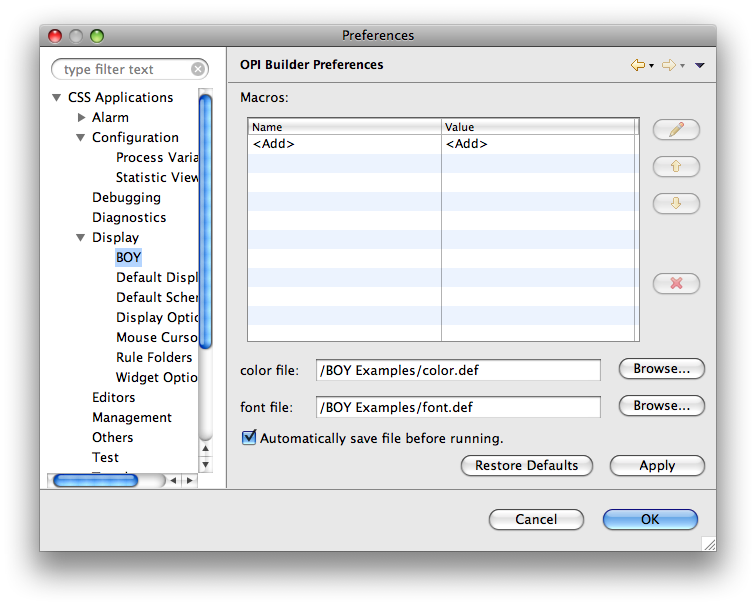
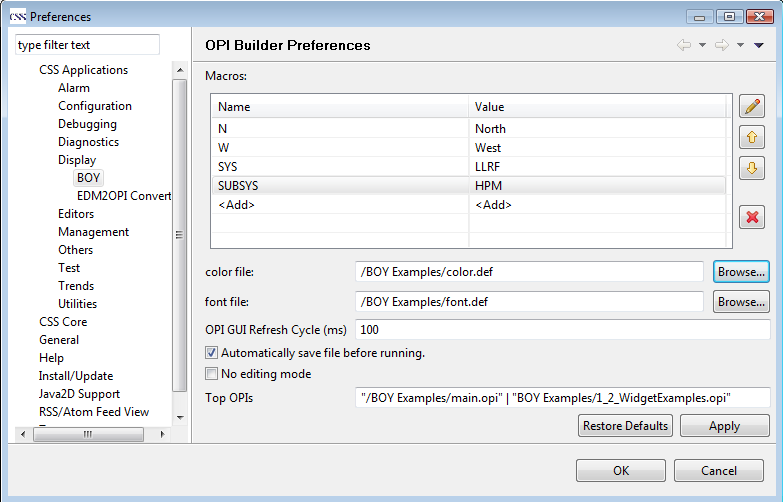
update manual

diff --git a/applications/plugins/org.csstudio.opibuilder/html/PreferencePage.html b/applications/plugins/org.csstudio.opibuilder/html/PreferencePage.html
@@ -1,0 +1,44 @@
+<html>
+  <head>
+    <meta http-equiv="Content-Type" content="text/html; charset=Cp1252"/>
+    <link rel="stylesheet" href="default.css" type="text/css" />
+    <title>
+      Setting Preferences
+    </title>
+  </head>
+  <body>
+
+    <h2>
+     Setting Preferences
+    </h2>
+
+    <h3>
+     Preference Page
+    </h3>
+    <p>
+    All the preferences of BOY can be set in the preference page, which can be opened via menu: 
+    <b>CSS->Preferences...->CSS Applications->Display->BOY</b>.
+    </p>
+    <p>
+         <img src="./img/PreferencePage.png"/>      
+    </p>
+    <ul>
+    <li>
+    <b>Macros: </b>The global sysmbol macros.
+    </li>
+    <li><b>color file: </b>The color definition file.</li>
+    <li><b>font file: </b>The font definition file.</li>
+    <li><b>OPI GUI Refresh Cycle (ms): </b> The refresh cycle of OPI GUI. Specify this to a longer will help to
+    reduce CPU usage, but it may affect user's experience and may lose some swift changs if refresh cycle is
+    longer than PV updating cycle. .
+    </li>
+    <li><b>Automatically save file before running: </b>The file in editing will be automatically saved before you run it.</li>
+    <li><b>No-Editing mode: </b>OPI files are not allowed to be opened in OPI editor. 
+    They will always be opened from runtime engine.</li>
+    <li><b>Top OPIs: </b>The OPIs which will be listed in the "Top OPIs" drop down button.</li>
+    <p><img src="./img/top_opis.png"></p>
+    </ul>
+
+
+  </body>
+</html>

diff --git a/applications/plugins/org.csstudio.opibuilder/html/Getting Started.html b/applications/plugins/org.csstudio.opibuilder/html/Getting Started.html
@@ -1,0 +1,44 @@
+<html>
+  <head>
+    <meta http-equiv="Content-Type" content="text/html; charset=Cp1252"/>
+    <link rel="stylesheet" href="default.css" type="text/css" />
+    <title>
+      Getting Started
+    </title>
+  </head>
+  <body>
+
+    <h2>
+     Getting Started
+    </h2>
+
+    <h3>
+     Building your fist OPI step by step
+    </h3>
+
+    <ul>
+    <li><b>Step 1.</b> Open the OPI Editor perspective from Menu: 
+Window->Open Perscpective->Other..->OPI Editor</li>
+<li><b>Step2.</b> Create a new OPI file from Menu
+File->new->Others...->BOY->OPI File
+</li>
+<li><b>Step3.</b> Click "Text Update" widget on the palette, then click or drag a rectangle in the editing area to place the widget on the editing area.  
+</li>
+<li><b>Step4.</b> Go to the properties view, set "PV Name" to "sim://noise"
+</li>
+<li><b>Step5.</b> Save file by pressing "Ctrl+S". Click the "Run OPI" button on the toolbar or press "Ctrl+G" to run the OPI in the editor. Congratulations! Now you can see the value update in the widget!
+</li>
+<li>You can also show PV value from other widgets (e.g. Gauge, Meter, Thermometer...) by following the same steps.
+</li>
+    </ul>   
+
+
+
+    <p>
+         <img src="./img/firstOPI.png"/>      
+    </p>
+
+
+
+  </body>
+</html>

diff --git a/applications/plugins/org.csstudio.opibuilder/html/BOY_Introduction.html b/applications/plugins/org.csstudio.opibuilder/html/BOY_Introduction.html
@@ -30,7 +30,11 @@
         The OPI Runtime can display the OPIs either in tabs or windows. It also provides the navigation function as in a
         modern web browser, by which one can easily navigate from the opened OPIs history.
       </p>
-
+	  <p>
+	  	BOY is developed based on Java and Eclipse with the pluggable feature, which means it can be 
+	  	intalled in any Eclipse RCP application by simply copy the BOY plugins file into the RCP application's plugins folder.
+	  	It has been tested that BOY runs well on Windows, Unix and X OS platforms. 
+	  </p>
       <p>
         The BOY OPI development environment:
        </p>
@@ -38,7 +42,12 @@
           <img src="./img/OPI_Editor_Perspective.png" alt="BOY OPI development environment"/>
         </p>
 
-
+		<p>
+		BOY can be downloaded from SNS CSS website <a href="http://ics-web.sns.ornl.gov/css/index.html">
+		http://ics-web.sns.ornl.gov/css/index.html</a> together with the whole CSS application. 
+		It is still under active developing and testing. Its latest update is available at this page 
+		<a href="http://ics-web.sns.ornl.gov/css/boy.html">http://ics-web.sns.ornl.gov/css/boy.html</a>.
+		</p>	
 
       </body>
     </html>

diff --git a/applications/plugins/org.csstudio.opibuilder/html/Actions.html b/applications/plugins/org.csstudio.opibuilder/html/Actions.html
@@ -16,17 +16,21 @@
       There are five types of actions that can be associated with any type of widget:
       </p>
       <ol>
-      <li>Open another OPI
+      <li><b>Open another OPI</b>
       </li>
-      <li>Write PV
+      <li><b>Write PV</b>
       </li>
-      <li> Execute Command: execute command just as execute command in a shell. The output will be displayed in the console.
+      <li> <b>Execute Command</b>: execute command just as execute command in a shell. The output will be displayed in the console.
       </li>
-      <li> Execute JavaScript
+      <li> <b>Execute JavaScript</b>
       </li>
-      <li>Open File: open a file with the default editor. For example, you can open a databrowser
+      <li><b>Open File</b> open a file with the default editor. For example, you can open a databrowser
       file in databrowser. 
       </li>      
+      <li><b>Play WAV file</b> 
+      </li>
+      <li><b>Open Webpage</b> 
+      </li>
       </ol> 
       <h3>Invoke Action</h3>
      <p><img src="img/Actions.png" align="right"> In run mode, you can invoke the actions by right clicking a widget and select from

diff --git a/applications/plugins/org.csstudio.opibuilder/html/Script.html b/applications/plugins/org.csstudio.opibuilder/html/Script.html
@@ -8,9 +8,9 @@
   </head>
   <body>
 
-    <h2>
+    <h1>
       Script
-    </h2>
+    </h1>
     <p>
 To obtain more flexible hehaviors than just setting from properties sheet, you can attach scripts to widgets.
 The script is JavaScript file, but more than plain javascript file, you can set PVs as input and set the properties of the widget in the script. The script execution is triggered by the PV inputs.

diff --git a/applications/plugins/org.csstudio.opibuilder/src/org/csstudio/opibuilder/preferences/OPIBuilderPreferencePage.java b/applications/plugins/org.csstudio.opibuilder/src/org/csstudio/opibuilder/preferences/OPIBuilderPreferencePage.java
@@ -62,7 +62,7 @@ public class OPIBuilderPreferencePage extends FieldEditorPreferencePage
 		
 		BooleanFieldEditor noEditModeEditor = 
 			new BooleanFieldEditor(PreferencesHelper.NO_EDIT, 
-					"No editing mode", parent);				
+					"No-Editing mode", parent);				
 		addField(noEditModeEditor);
 		
 		StringFieldEditor topOPIsEditor = 
